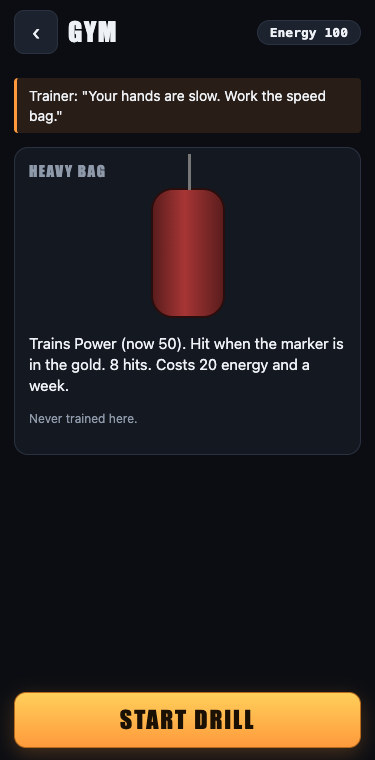
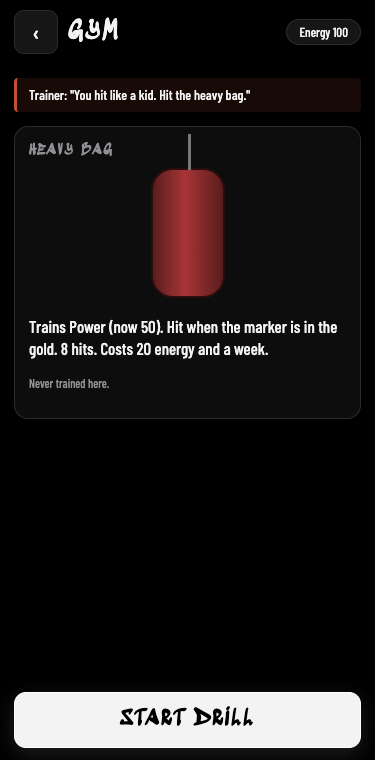
Style pass follow-up: monochrome portraits, energy bar and corner colours; numbers in condensed sans (BOX-13)

diff --git a/public/boxing/index.html b/public/boxing/index.html
@@ -3,7 +3,7 @@
 <head>
 <meta charset="utf-8">
 <meta name="viewport" content="width=device-width, initial-scale=1, viewport-fit=cover">
-<meta name="theme-color" content="#0b0d12">
+<meta name="theme-color" content="#000">
 <meta name="apple-mobile-web-app-capable" content="yes">
 <title>Bring The Ruckus</title>
 <!--
@@ -145,10 +145,10 @@
 
   /* ── Upgrade ── */
   .points-big { text-align: center; padding: 6px 0 14px; }
-  .points-big b { display: block; font: 400 64px/1 var(--display); color: var(--accent); }
+  .points-big b { display: block; font: 700 68px/1 var(--body); color: var(--accent); }
   .urow { display: grid; grid-template-columns: 1fr auto; gap: 4px 12px; align-items: center; padding: 12px 0; border-bottom: 1px solid var(--line); }
   .urow .nm { font: 400 20px var(--display); letter-spacing: .08em; text-transform: uppercase; }
-  .urow .nm span { font: 600 18px var(--mono); color: var(--accent); margin-left: 8px; }
+  .urow .nm span { font: 700 20px var(--body); color: var(--accent); margin-left: 8px; }
   .urow .fx { grid-column: 1; font-size: 12px; color: var(--muted); }
   .urow .bar { grid-column: 1; }
   .urow .btns { grid-column: 2; grid-row: 1 / span 3; display: flex; gap: 8px; }
@@ -178,7 +178,7 @@
   .side { display: grid; gap: 4px; }
   .side.blue { text-align: right; }
   .side .nm { font: 400 19px/1 var(--display); letter-spacing: .07em; text-transform: uppercase; text-shadow: 0 2px 4px #000; white-space: nowrap; overflow: hidden; text-overflow: ellipsis; }
-  .side.red .nm { color: #ff7478; } .side.blue .nm { color: #6fb0ff; }
+  .side.red .nm { color: #f3f3f3; } .side.blue .nm { color: #b4b4b9; }
   .vit { display: flex; align-items: center; gap: 7px; }
   .side.blue .vit { flex-direction: row-reverse; }
   .vit .bars { flex: 1; min-width: 0; display: grid; gap: 4px; }
@@ -193,7 +193,7 @@
   .dmg-grid .who { font: 400 15px var(--display); letter-spacing: .1em; text-transform: uppercase; margin-bottom: 6px; }
   .dmg-fig { display: flex; align-items: center; justify-content: center; gap: 12px; }
   .dmg-list { display: grid; gap: 5px; text-align: left; font-size: 12.5px; }
-  .dmg-list b { font: 400 17px/1 var(--display); color: var(--accent); margin-right: 4px; }
+  .dmg-list b { font: 700 20px/1 var(--body); color: var(--accent); margin-right: 4px; }
   .dmg-list span { display: block; font-size: 10.5px; letter-spacing: .1em; text-transform: uppercase; color: var(--muted); }
   .dmg-note { margin: 10px 0 0; font-size: 11.5px; color: var(--muted); }
   .meter { position: relative; height: 12px; background: rgba(0,0,0,.6); border: 1px solid rgba(255,255,255,.25); border-radius: 3px; overflow: hidden; transform: skewX(-14deg); }
@@ -228,20 +228,20 @@
   #s-result .scroll { padding-top: calc(var(--top) + 18px); text-align: center; }
   .verdict { font: 400 clamp(56px, 18vw, 92px)/.95 var(--display); letter-spacing: .04em; text-transform: uppercase; margin: 0; opacity: 0; animation: pop .55s cubic-bezier(.2,1.4,.4,1) forwards; animation-delay: var(--vd, 0s); }
   .verdict.w { color: var(--accent-2); text-shadow: 0 0 30px rgba(194,81,47,.5), 3px 4px 0 #000; }
-  .verdict.l { color: #ff6b6b; text-shadow: 3px 4px 0 #000; } .verdict.d { color: #c7d0de; text-shadow: 3px 4px 0 #000; }
+  .verdict.l { color: var(--accent); text-shadow: 3px 4px 0 #000; } .verdict.d { color: #c7d0de; text-shadow: 3px 4px 0 #000; }
   .method { font: 600 14px var(--body); letter-spacing: .16em; text-transform: uppercase; color: var(--muted); margin: 6px 0 16px; opacity: 0; animation: fade .4s forwards; animation-delay: var(--vd, 0s); }
   @keyframes pop { from { opacity: 0; transform: scale(1.7) rotate(-4deg); } to { opacity: 1; transform: none; } }
   @keyframes fade { to { opacity: 1; } }
   .cardtbl { width: 100%; border-collapse: collapse; font: 600 16px var(--mono); }
   .cardtbl th { font: 600 11px var(--body); letter-spacing: .1em; text-transform: uppercase; color: var(--muted); padding-bottom: 6px; }
-  .cardtbl th.r { color: #ff7478; } .cardtbl th.b { color: #6fb0ff; }
+  .cardtbl th.r { color: #f3f3f3; } .cardtbl th.b { color: #a4a4a9; }
   .cardtbl td { padding: 6px 0; border-top: 1px solid var(--line); opacity: 0; animation: fade .35s forwards; animation-delay: calc(var(--i) * .55s); }
   .cardtbl tr.tot td { font-size: 20px; border-top: 2px solid var(--muted); animation-delay: calc(var(--i) * .55s + .3s); }
   .stat2 { display: grid; grid-template-columns: 1fr auto 1fr; gap: 6px 10px; font-size: 14px; align-items: center; }
   .stat2 b { font: 600 15px var(--mono); } .stat2 span:nth-child(3n+2) { color: var(--muted); font-size: 11px; letter-spacing: .1em; text-transform: uppercase; }
   .stat2 span:nth-child(3n+1) { text-align: right; } .stat2 span:nth-child(3n) { text-align: left; }
   .reward { display: flex; justify-content: space-around; text-align: center; }
-  .reward b { display: block; font: 400 34px/1 var(--display); color: var(--accent); }
+  .reward b { display: block; font: 700 38px/1 var(--body); color: var(--accent); }
   .reward span { font-size: 11px; letter-spacing: .1em; text-transform: uppercase; color: var(--muted); }
   .unlock { background: linear-gradient(90deg, #2a1c0e, #1c222e); border: 1px solid var(--accent); border-radius: 12px; padding: 10px 14px; margin-bottom: 8px; text-align: left; }
   .unlock b { color: var(--accent); font: 400 13px var(--display); letter-spacing: .12em; text-transform: uppercase; display: block; }
@@ -249,17 +249,17 @@
 
   /* ── Career ── */
   .stat-line { display: flex; justify-content: space-between; gap: 8px; text-align: center; }
-  .stat-line b { display: block; font: 400 26px/1 var(--display); color: var(--accent); }
+  .stat-line b { display: block; font: 700 30px/1 var(--body); color: var(--accent); }
   .stat-line span { font-size: 10.5px; letter-spacing: .1em; text-transform: uppercase; color: var(--muted); }
   .energy { height: 10px; border-radius: 5px; background: var(--panel-2); overflow: hidden; margin: 12px 0 6px; }
-  .energy i { display: block; height: 100%; background: linear-gradient(90deg, #d9a12b, #3fb950); }
+  .energy i { display: block; height: 100%; background: linear-gradient(90deg, #8f8f94, #f3f3f3); }
   .cond { font-size: 12.5px; color: var(--muted); } .cond.bad { color: #ff9a7a; }
   .week-h { display: flex; justify-content: space-between; align-items: baseline; margin: 16px 0 8px; font: 400 15px var(--display); letter-spacing: .1em; text-transform: uppercase; color: var(--muted); }
   .offer { display: grid; grid-template-columns: 64px 1fr auto; gap: 12px; align-items: center; width: 100%; text-align: left; padding: 10px; margin-bottom: 10px; background: var(--panel); border: 2px solid var(--line); border-radius: 14px; min-height: 84px; }
   .offer .avatar { width: 64px; height: 64px; font-size: 32px; }
   .offer .nm { font: 400 20px/1.1 var(--display); letter-spacing: .06em; text-transform: uppercase; }
   .offer .meta { font-size: 12px; color: var(--muted); }
-  .offer .purse { font: 400 22px var(--display); color: var(--accent-2); text-align: right; }
+  .offer .purse { font: 700 26px var(--body); color: var(--accent-2); text-align: right; }
   .offer.rival { border-color: var(--red); }
   .tagpill { display: inline-block; font: 700 9px var(--body); letter-spacing: .1em; padding: 2px 7px; border-radius: 999px; background: var(--red); color: #fff; margin-left: 6px; vertical-align: middle; text-transform: uppercase; }
   .tagpill.gold { background: var(--accent); color: #1b1004; }
@@ -276,9 +276,9 @@
   .poster .avatar { width: min(34vw, 130px); height: min(34vw, 130px); margin: 0 auto 8px; font-size: 56px; }
   .poster .nm { font: 400 22px/1.1 var(--display); letter-spacing: .05em; text-transform: uppercase; }
   .poster .rec { font: 600 13px var(--mono); color: var(--muted); }
-  .poster .purse-big { font: 400 54px/1 var(--display); color: var(--accent-2); margin: 18px 0 2px; }
+  .poster .purse-big { font: 700 64px/1 var(--body); color: var(--accent-2); margin: 18px 0 2px; }
   .drill-bar { position: relative; height: 64px; border-radius: 12px; border: 2px solid var(--line); overflow: hidden; margin: 14px 0;
-    background: linear-gradient(90deg, #2b1a1a 0, #2b1a1a 15%, #3a3417 15%, #3a3417 32.5%, #6b5a1d 32.5%, #6b5a1d 44%, #d9a12b 44%, #d9a12b 56%, #6b5a1d 56%, #6b5a1d 67.5%, #3a3417 67.5%, #3a3417 85%, #2b1a1a 85%); }
+    background: linear-gradient(90deg, #2b1a1a 0, #2b1a1a 15%, #3a3417 15%, #3a3417 32.5%, #3c3c40 32.5%, #3c3c40 44%, #d9a12b 44%, #d9a12b 56%, #3c3c40 56%, #3c3c40 67.5%, #3a3417 67.5%, #3a3417 85%, #2b1a1a 85%); }
   .drill-bar .mk { position: absolute; top: 0; bottom: 0; width: 6px; margin-left: -3px; background: #fff; box-shadow: 0 0 10px #fff; }
   .bag { width: 74px; height: 130px; margin: 6px auto 0; border-radius: 22px; background: linear-gradient(90deg, #5b1d1d, #a73535 45%, #5b1d1d); border: 2px solid #2a0d0d; position: relative; transform-origin: 50% -30px; }
   .bag::before { content: ''; position: absolute; left: 50%; top: -36px; width: 3px; height: 36px; background: #777; }
@@ -847,13 +847,13 @@ $('camp-reset').onclick = () => { state.pending = null; renderUpgrade(); };
 // ─── Opponents ──────────────────────────────────────────────────────────────
 
 const ARCHETYPES = {
-  slugger:    { name: 'Iron Mauler',   style: 'Heavy hands, slow feet. One shot changes the night.', stats: { speed: 38, power: 82, stamina: 55, ringIQ: 42 }, tint: '#6b1d22',
+  slugger:    { name: 'Iron Mauler',   style: 'Heavy hands, slow feet. One shot changes the night.', stats: { speed: 38, power: 82, stamina: 55, ringIQ: 42 }, tint: '#4a4a4e',
     look: { topStyle: 'tank', top: '#16171a', jeans: '#1d1e22', boots: 'timbs', cap: null, chain: true, wraps: '#16171a', skin: 'deep' } },
-  speedster:  { name: 'Quicksilver',   style: 'Flurries from every angle. Hard to catch.', stats: { speed: 84, power: 40, stamina: 60, ringIQ: 55 }, tint: '#6b5a1d',
+  speedster:  { name: 'Quicksilver',   style: 'Flurries from every angle. Hard to catch.', stats: { speed: 84, power: 40, stamina: 60, ringIQ: 55 }, tint: '#3c3c40',
     look: { topStyle: 'tee', top: '#c9a227', jeans: '#2f3b52', boots: 'sneakers', cap: '#16171a', capBackwards: false, chain: false, wraps: '#ecebe6', skin: 'medium' } },
-  technician: { name: 'The Professor', style: 'Reads you like a book and counters everything.', stats: { speed: 58, power: 50, stamina: 52, ringIQ: 82 }, tint: '#1d3a6b',
+  technician: { name: 'The Professor', style: 'Reads you like a book and counters everything.', stats: { speed: 58, power: 50, stamina: 52, ringIQ: 82 }, tint: '#58585d',
     look: { topStyle: 'hoodie', top: '#8a8f96', jeans: '#4f6b8f', boots: 'sneakers', cap: null, chain: false, wraps: '#2f6fd0', skin: 'light' } },
-  grinder:    { name: 'Diesel Dean',   style: 'Never tires. Wears you down in the late rounds.', stats: { speed: 48, power: 55, stamina: 85, ringIQ: 45 }, tint: '#1d5a3a',
+  grinder:    { name: 'Diesel Dean',   style: 'Never tires. Wears you down in the late rounds.', stats: { speed: 48, power: 55, stamina: 85, ringIQ: 45 }, tint: '#2f2f33',
     look: { topStyle: 'varsity', top: '#3d5a3a', sleeve: '#c9c6bf', jeans: '#2f3b52', boots: 'timbs', cap: '#3d5a3a', capBackwards: true, chain: true, wraps: '#d9a12b', skin: 'medium' } },
 };
 const opponentOf = (key) => (key === 'mirror'
@@ -869,7 +869,7 @@ function renderOpponents() {
       bar.firstChild.style.width = `${o.stats[s]}%`;
       return el('div', { className: 'mini' }, el('span', { textContent: STAT_LABEL[s] }), bar);
     });
-    const avatar = el('div', { className: 'avatar', style: `background:linear-gradient(160deg, ${o.tint}, #0b0d12)` }, o.name[0]);
+    const avatar = el('div', { className: 'avatar', style: `background:linear-gradient(160deg, ${o.tint}, #000)` }, o.name[0]);
     return el('button', { className: 'opp', type: 'button', ariaPressed: String(state.opp === k), onclick: () => { state.opp = k; sfx.click(); renderOpponents(); } },
       avatar,
       el('div', {}, el('div', { className: 'nm', textContent: o.name }), el('div', { className: 'style', textContent: o.style }), ...mini));
@@ -1167,8 +1167,8 @@ function damageCard(r) {
 // ─── Career ─────────────────────────────────────────────────────────────────
 
 const money = (n) => `$${n.toLocaleString('en-US')}`;
-const portrait = (o) => el('div', { className: 'avatar', style: `background:linear-gradient(160deg, ${LOOK_TINT[o.arch] ?? '#4a4a55'}, #0b0d12)` }, o.name[0]);
-const LOOK_TINT = { slugger: '#6b1d22', speedster: '#6b5a1d', technician: '#1d3a6b', grinder: '#1d5a3a' };
+const portrait = (o) => el('div', { className: 'avatar', style: `background:linear-gradient(160deg, ${LOOK_TINT[o.arch] ?? '#4a4a55'}, #000)` }, o.name[0]);
+const LOOK_TINT = { slugger: '#4a4a4e', speedster: '#3c3c40', technician: '#58585d', grinder: '#2f2f33' };
 const saveCareer = () => db.saveFighter(state.fighter).then(() => { state.hasSaved = true; });
 
 function offerButton(o) {
@@ -1241,7 +1241,7 @@ function renderCard() {
     el('div', { className: 'tier', textContent: `${o.tierName}${o.title ? ' · title fight' : ''}${o.rival ? ' · rematch' : ''}` }),
     el('div', { className: 'venue', textContent: `${o.venue} · ${o.rounds} round${o.rounds > 1 ? 's' : ''}` }),
     el('div', { className: 'vs' },
-      el('div', {}, el('div', { className: 'avatar', style: 'background:linear-gradient(160deg,#6b1d22,#0b0d12)' }, state.fighter.name[0]), el('div', { className: 'nm', textContent: state.fighter.name }), el('div', { className: 'rec', textContent: recordText(state.fighter.record) })),
+      el('div', {}, el('div', { className: 'avatar', style: 'background:linear-gradient(160deg,#3a2220,#000)' }, state.fighter.name[0]), el('div', { className: 'nm', textContent: state.fighter.name }), el('div', { className: 'rec', textContent: recordText(state.fighter.record) })),
       el('b', { textContent: 'VS' }),
       el('div', {}, portrait(o), el('div', { className: 'nm', textContent: o.name }), el('div', { className: 'rec', textContent: `${o.record.w}-${o.record.l}-0` }))),
     el('div', { className: 'purse-big', textContent: money(o.purse) }),

diff --git a/public/boxing/HANDOFF.md b/public/boxing/HANDOFF.md
@@ -334,3 +334,6 @@ User style direction applied to the whole UI. Sedgwick Ave Display (graffiti: lo
 ## Done (2026-10-04): damage on screen, BOX-9 first slice (Boxing UI Dev)
 The sim records only `target` ('head'/'body') and `outcome` per punch (the `ZONE` in `physics-engine.js` is the ropes zone), so no sim change: zones are derived from those. Landed head shots -> head, landed body shots -> body, blocked shots -> arms ("Blocked"); slips hit nothing. `flow.js`: `zoneOf`, `emptyDamage`, `recordDamage`, `zoneHeat` (pure, tested). `index.html`: `silhouette()` / `paintSilhouette()`; each fighter's HUD has a small figure beside the bars whose zones tint amber to red and pulse on each hit (listens to `impact`, never writes the sim); the result screen has a "Damage taken" card with a big figure and health points and shots per zone for both fighters. Tally is reset per fight and stored in `state.result.damage`. `npm test` 271 pass; `demo-e2e.mjs` clean (new `qa/game-7b-fight-damage-*.png`, `game-8-result-*.png`).
 - Not built yet from BOX-9: between-rounds stats screen, per-round breakdown, punches by type, AI corner timeline. **Untested**: night HUD by eye, real phone, reduced-motion.
+
+### Style pass follow-up (2026-10-04)
+Eyeballed hub, gym, fight card, corner and result at 375 px (career-e2e screenshots) and fixed leftovers: energy bar, archetype portrait tints, blue/red corner names and table headers now grey/white, all big numbers (purse, money, XP, record, damage) use Barlow Condensed bold instead of the graffiti face. Left as is: damage figure heat colours (functional). Still unchecked: real phone, Safari.
